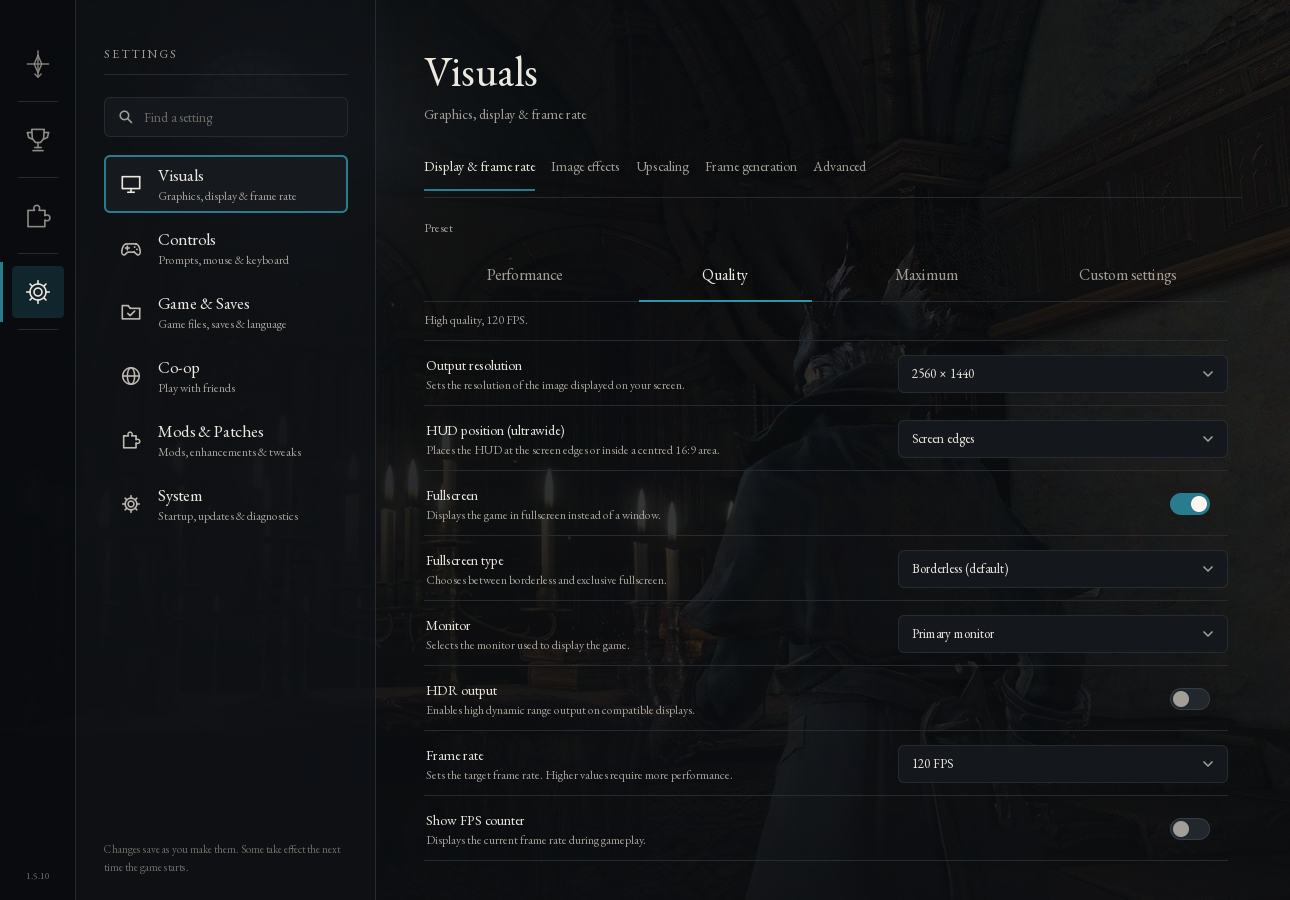
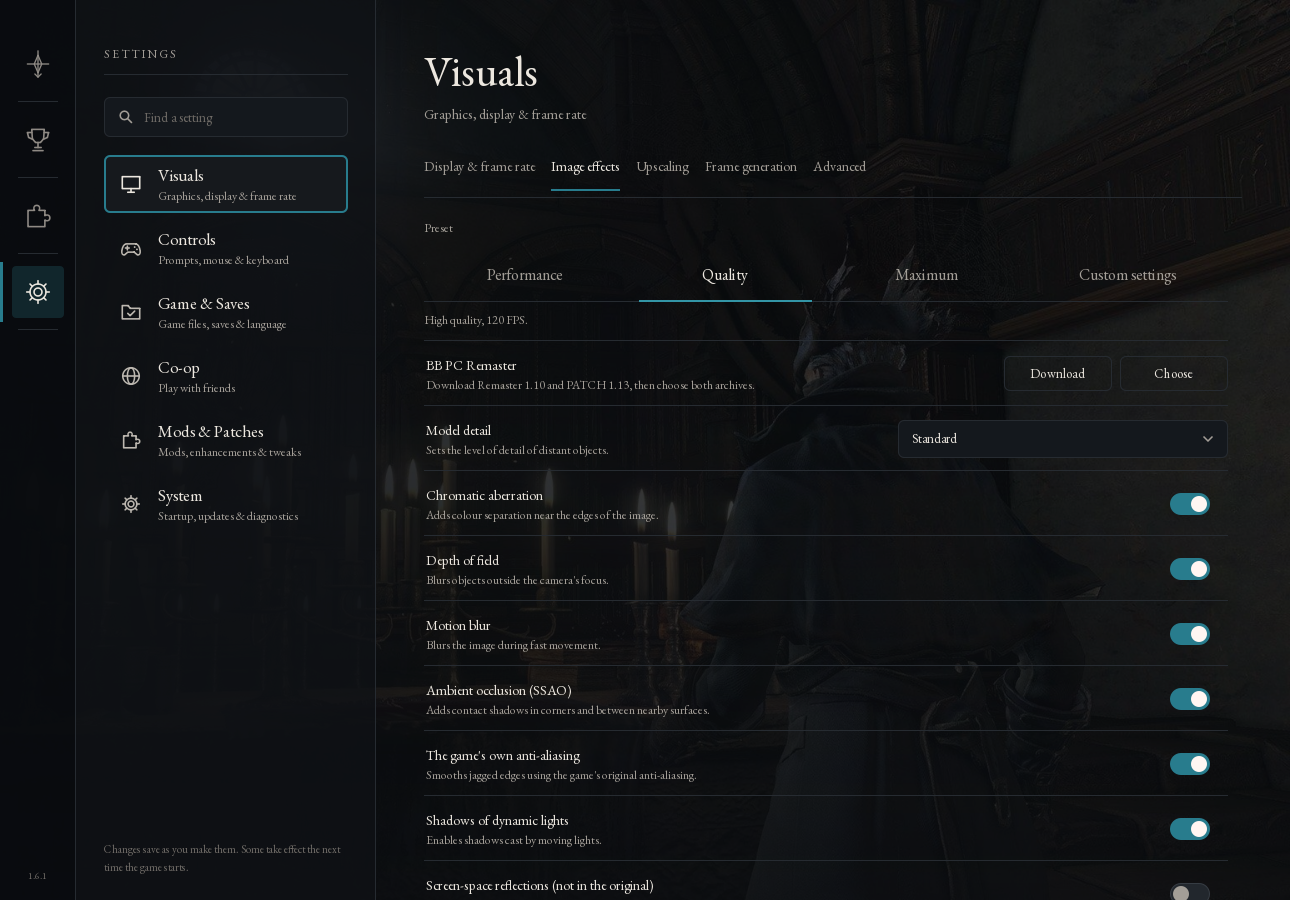
docs: document BBGL 1.6.1 on main

diff --git a/README.md b/README.md
@@ -1,6 +1,6 @@
 # Bloodborne Game Launcher (BBGL)
 
-**BBGL 1.5.10** includes BBSC-GL 1.5.10 and optional Pig Invasion (disabled by default). Enable it in Mods; the first launch prepares 2529 files. See [release notes](docs/release-1.5.10.md) for changes and gameplay coverage.
+**BBGL 1.6.1** adds a dedicated BB PC Remaster setting and includes BBSC-GL 1.6.1 for character-specific guest progress and co-op boss recovery. [Release notes](docs/release-1.6.1.md).
 
 **English** · [Русский](README.ru.md) · [Download BBGL](https://github.com/mark3317/bbgl/releases/latest) · [Report a problem](https://github.com/mark3317/bbgl/issues)
 
@@ -14,7 +14,7 @@ BBGL brings installation, configuration and launching into one interface. Guided
 
 **The entire main story is playable in co-op, from the beginning through the finale, with a working transition to NG+. A complete playthrough and the move into the next cycle have been tested in-game and confirmed by the user. Chalice dungeons work in co-op, including randomly generated Root Chalices.**
 
-The current published release fixes Silencing Blank item context and restores collision after in-place respawn. Collision was confirmed in a host gameplay retest. Visual Blank verification, full Pig Invasion coverage and group-death checks with two or three updated clients remain open. The network-pool exhaustion disconnect remains unresolved. [Release notes](docs/release-1.5.10.md).
+The multiplayer retest is pending, and the network-pool disconnect remains an open issue. [Release notes](docs/release-1.6.1.md).
 
 ## Party and peer-to-peer networking
 
@@ -40,6 +40,7 @@ A complete main-story co-op playthrough and transition to NG+ were confirmed by 
 - **One package for getting started.** Built-in game downloading, bundled P2P co-op client, and ready-to-use button prompt packs. Game files are downloaded separately through the interface and are not included in the launcher ZIP.
 - **Full Russian interface localization.** The launcher, added in-game menus and overlay are translated into Russian; English is also available.
 - **Graphics settings during gameplay.** Change resolution, upscaling and supported graphics effects through the in-game menu without restarting the game, so you can tune image quality and performance during a session.
+- **Optional BB PC Remaster.** Install and enable the texture pack under **Settings → Visuals → Image effects**. [Installation instructions](docs/MODS.md#bb-pc-remaster).
 - **Redesigned interface.** Guided first launch, settings search, solo/co-op launch selection and LAN/VPN connection checks from the launcher.
 - **Mod management.** One table for load order, toggles, network comparison and missing-mod downloads, with a mismatch warning before launch. Button prompts stay separate. The optional Diamond Sword mod is bundled and disabled by default.
 - **In-game overlay.** Open trophies, notifications, diagnostics and live cheat toggles with **Insert** or **L3 + R3**. The overlay follows the launcher's language.
@@ -58,7 +59,7 @@ The interface supports English and Russian. The screenshots show the cooperative
 
 ## Start playing
 
-1. Download `bbgl-1.5.10-windows-x64.zip` from Releases and extract it. Open the **Bloodborne Game Launcher** folder.
+1. Download `bbgl-1.6.1-windows-x64.zip` from Releases and extract it. Open the **Bloodborne Game Launcher** folder.
 2. Run **Bloodborne.exe**. Use the built-in download button in setup or select an existing Bloodborne **CUSA03173, update 1.09** folder. Game files are not included in the launcher archive.
 3. For co-op, connect every PC to the same VPN or LAN. Choose **Local network**, **Tailscale** or **Radmin**; installed VPNs appear in the list and missing ones have installation buttons. Check connectivity, then start the game. Players can join later. No server or invite code is required.
 4. Use the in-game co-op bells to gather your party. Keep everyone on the same BBGL release.
@@ -69,6 +70,6 @@ Windows x64 and a compatible Vulkan driver are required. For graphics, hardware,
 
 [Build BBGL](BUILDING.md) · [Changes](CHANGELOG.md) · [Credits and licences](THIRD_PARTY.md)
 
-Use tag `v1.5.10` for the published release source; `develop` is ongoing work. This documentation update leaves `main` code at 1.5.8. BBSC-GL is pinned as a submodule. Internal `bbport` / `bbsc` executable names and protocol identifiers are retained for compatibility.
+Use tag `v1.6.1` to build the published version. Current development is in `develop`. BBSC-GL is pinned as a submodule. Internal `bbport` / `bbsc` executable names and protocol identifiers are retained for compatibility.
 
 Based on yharnam-pc / bbport and [BBSC by CLS_AMG and contributors](https://github.com/CLSAMG22/BBSC). Their licences and attribution remain included. Bloodborne belongs to FromSoftware and Sony Interactive Entertainment; this is an independent fan project.

diff --git a/docs/release-1.6.1.md b/docs/release-1.6.1.md
@@ -1,0 +1,23 @@
+# BBGL 1.6.1
+
+## Русский
+
+- **BB PC Remaster** получил отдельную строку в разделе «Эффекты изображения». Кнопки «Скачать» и «Выбрать» помогают установить Remaster 1.10 и PATCH 1.13. После установки появляется переключатель. Пока пак включён, строка «Детализация моделей» скрыта. Уровни детализации в лаунчере и игровом меню идут от максимального к минимальному.
+- В игровом оверлее добавлена команда «Погасить все фонари». В автономном режиме она срабатывает один раз при следующей загрузке локации вне Сна охотника. Фонари чаш сохраняются.
+- BBSC-GL 1.6.1 привязывает прогресс гостя к загруженному персонажу и уточняет обработку возрождения, сброса боя и входа гостя первым к боссу.
+
+Распакуйте полный Windows ZIP и запустите `Bloodborne.exe`. Для обновления закройте игру и лаунчер. Обновите всех участников кооператива до 1.6.1. Лаунчер уже включает BBSC-GL и Party. Архивы Remaster загружаются отдельно по инструкции в лаунчере.
+
+В предыдущем игровом прогоне гость первым запустил бой со Стражами в чаше, и оба игрока увидели полоску босса. Для 1.6.1 остаются открыты полный игровой повтор, сценарий сюжетного Рома с отдельным прыжком, задержка первой смерти гостя после загрузки и разрыв сессии по защите сетевого пула NETWORK. Сброс фонарей проверен на стенде, игровой повтор открыт.
+
+## English
+
+- **BB PC Remaster** has its own Image effects setting. The Download and Choose buttons install Remaster 1.10 and PATCH 1.13. The switch appears after installation. Turning the pack on hides Model detail. The launcher and the in-game menu list detail levels from highest to lowest.
+- The in-game overlay can extinguish all lamps outside Chalice Dungeons. This offline action runs once on the next area load outside the Hunter’s Dream.
+- Bundled BBSC-GL 1.6.1 binds guest progress to the loaded character and updates respawn, boss resets and encounters entered first by a guest.
+
+Extract the full Windows ZIP and run `Bloodborne.exe`. Close the game and launcher before updating. Update every co-op player to 1.6.1. BBSC-GL and Party are included. Download the Remaster archives separately using the instructions in the launcher.
+
+A prior game session confirmed a guest could start the Merciless Watchers encounter and both players saw the boss bar. Full gameplay verification for 1.6.1 remains open, along with story Rom’s jump, the delay on a guest’s first death after loading and the NETWORK pool disconnect. Lamp reset passed a targeted test and still needs an in-game check.
+
+[BBSC-GL 1.6.1](https://github.com/mark3317/bbsc-gl/releases/tag/v1.6.1)

diff --git a/BUILDING.md b/BUILDING.md
@@ -5,14 +5,14 @@ Use Windows x64, Visual Studio C++ Build Tools (with Clang), Windows Python 3.10
 ```sh
 git clone https://github.com/mark3317/bbgl.git
 cd bbgl
-git checkout develop
+git checkout v1.6.1
 git submodule update --init gpu/third_party/fsr-vulkan gpu/third_party/imgui third_party/LibAtrac9 gpu/third_party/magic_enum gpu/third_party/miniz gpu/third_party/xbyak mods-src/BBSC
 bash packaging/windows/build-coop-package.sh
 ```
 
 The command builds BBSC-GL from `mods-src/BBSC`, builds the port, freezes the launcher and assembles the P2P runtime. FSR-Vulkan is pinned from the [BBGL dependency fork](https://github.com/mark3317/UniversalScalers-Vulkan), which includes the frame-resource lifetime fix used by this release. The current co-op path needs no separate game server, shadNet account or invitation. Historical server build scripts are not part of this release path.
 
-Staging is recreated at `out/stage/Bloodborne Game Launcher`. The release files are `dist/bbgl-1.5.10-windows-x64.zip` and its `.zip.sha256`. Keep the staging path separate from installed launchers and keep player settings, saves, accounts, logs and game files outside the package.
+Staging is recreated at `out/stage/Bloodborne Game Launcher`. The release files are `dist/bbgl-1.6.1-windows-x64.zip` and its `.zip.sha256`. Keep the staging path separate from installed launchers and keep player settings, saves, accounts, logs and game files outside the package.
 
 Button prompts and the optional Diamond Sword use binary deltas from `bundled-mods`. Packaging uses prepared button prompts from `out/vendor/ready-prompts`. If the cache is empty, set `BB_PROMPT_GAME_DIR` to your own original 1.09 game folder to prepare the prompts. Diamond Sword and all cheats are disabled by default. Detailed logging, research, profiling and Vulkan validation are opt-in. See the [logging policy](docs/LOGGING.md).
 
@@ -24,6 +24,8 @@ Commit the intended BBSC changes before updating the parent gitlink. `coop/SOURC
 
 When building a Git for Windows checkout from MSYS2, use the same line-ending configuration in both environments. If Git for Windows reports a clean checkout but MSYS2 reports only CRLF differences in BBSC dependencies, run the build with `GIT_CONFIG_COUNT=1 GIT_CONFIG_KEY_0=core.autocrlf GIT_CONFIG_VALUE_0=true` in the MSYS2 command environment. Verify that both Git clients report a clean BBSC checkout and that `source_dirty` is false in the final ZIP.
 
-`develop` holds ongoing work. `main` holds release source. BBGL 1.5.10 uses update tag `v1.5.10` and bundles BBSC-GL 1.5.10.
+If MSYS2 Git stalls when collecting BBSC source metadata, set `BB_BUILD_GIT` to the absolute Windows path to Git for Windows before running the packaging command.
+
+`develop` holds ongoing work. The release tag pins the published source. BBGL 1.6.1 uses update tag `v1.6.1` and bundles BBSC-GL 1.6.1.
 
 Pig Invasion is bundled as 2529 binary deltas and is disabled by default. Enable it in Mods. First activation may take several minutes; all co-op players should use matching mods. Game archives are not shipped.

diff --git a/docs/release-1.6.0.md b/docs/release-1.6.0.md
@@ -1,0 +1,27 @@
+# BBGL 1.6.0
+
+## Русский
+
+- Гости видят Германа там же, где хост, в том числе после перезагрузки Сна хостом. Концовку выбирает хост.
+- При сохранении в чужом Сне сохраняются личные алтари гостя. В совместном финале гость восстанавливает свой мир до перехода в NG+.
+- Дополнен сброс попыток после общей гибели на боссах сюжета, DLC и чаш, включая размещение Лоуренса и раскладки с отдельными флагами боя.
+- При возрождении после гибели на лестнице сбрасывается штатное состояние лазания.
+- Обработан выход участника во время перехода в NG+, когда прежний мир уже выгружен.
+
+Распакуйте полный Windows ZIP и запустите `Bloodborne.exe`. В архив уже входят BBSC-GL 1.6.0 и Party. Обновите всех участников до 1.6.0.
+
+Целевые стенды прошли, в том числе для поздней активации Германа, всех трёх концовок, алтарей и сброса попыток. Игровой повтор на 1.6.0 открыт. Известный разрыв сессии по защите сетевого пула NETWORK остаётся открытым.
+
+## English
+
+- Guests see Gehrman at the host’s location in the Hunter’s Dream, including after the host reloads. The host chooses the ending.
+- Protects guests’ personal Chalice altars when saving in another player’s Dream. During the group finale, the guest restores their own world before entering NG+.
+- Extends boss-attempt resets after a group wipe across the story, DLC and Chalice Dungeons. Includes Laurence’s placement and variants with their own encounter flags.
+- Resets the native ladder action when a player respawns after dying on a ladder.
+- Guards native room-member removal during the NG+ transition when the old world has already been unloaded.
+
+Extract the full Windows ZIP and run `Bloodborne.exe`. BBSC-GL 1.6.0 and Party are bundled. Update every participant to 1.6.0.
+
+Targeted tests passed, including late Gehrman activation, all three endings, personal altars and boss-attempt resets. Multiplayer gameplay verification on 1.6.0 is pending. The known NETWORK pool disconnect remains open.
+
+[BBSC-GL 1.6.0](https://github.com/mark3317/bbsc-gl/releases/tag/v1.6.0)

diff --git a/docs/MODS.md b/docs/MODS.md
@@ -76,6 +76,25 @@ BB_GAME_DIR=/path/to/CUSA03173 BB_MODS_ENABLED=0 bash run.sh
 `BB_MODS_CONFIG` меняет путь профиля. `BB_MOD_TRACE=1` с `BB_MODS_DIR` выводит
 первые чтения реально подключённых файлов для диагностики.
 
+## BB PC Remaster
+
+В **Настройки → Изображение → Эффекты изображения** есть отдельная настройка
+**BB PC Remaster** от fromsoftserve. Нужны основной архив **1.10** и
+**PATCH 1.13**, всего **25,1 ГиБ** загрузки. Кнопка «Скачать» открывает
+[раздел файлов на Nexus Mods](https://www.nexusmods.com/bloodborne/mods/45?tab=files).
+Нажмите «Выбрать» и укажите оба скачанных архива. Лаунчер распакует их
+по порядку и покажет общий прогресс. После распаковки появится переключатель.
+
+С личным ключом Nexus Mods Premium в переменной среды `BB_NEXUS_API_KEY`
+лаунчер скачивает и распаковывает оба архива сам и показывает общий прогресс.
+При повторной попытке он использует уже полученные данные, если сервер
+поддерживает докачку. Без ключа загрузка идёт в браузере.
+
+Пак хранится в папке модов в `.bb-pc-remaster` и действует со следующего
+запуска игры. Включение задаёт максимальный LOD и подключает визуальный пак
+через существующую таблицу замен. Пока пак включён, строка «Детализация моделей»
+скрыта. При выключении она возвращается.
+
 # Сторонние патчи (XML shadPS4)
 
 Папка `patches/` в каталоге данных (в AppImage — `~/.local/share/bbport/patches/`, в лаунчере

diff --git a/docs/ROADMAP.md b/docs/ROADMAP.md
@@ -1,8 +1,16 @@
-## 13.11.2026 — актуальный опубликованный выпуск 1.5.10
+## 17.11.2026 — BBGL 1.6.1
 
-Документация `main` обновлена из `develop` без переноса кода: исходники
-`main` остаются на 1.5.8. Исходники опубликованного выпуска доступны
-в теге `v1.5.10`; текущая разработка — в `develop`.
+Включает BBSC-GL 1.6.1, отдельную настройку BB PC Remaster, согласованные
+названия уровней детализации и команду сброса фонарей в офлайн-оверлее.
+Контрольные суммы опубликованных ZIP совпали, лаунчер из архива запустился
+на русском и английском. Игровой повтор выпуска открыт.
+[Описание выпуска](release-1.6.1.md).
+
+## 15.11.2026 — BBGL 1.6.0
+
+Включает BBSC-GL 1.6.0. Стендовые проверки прошли, игровой повтор открыт. [Описание выпуска](release-1.6.0.md).
+
+## 13.11.2026 — статус выпуска 1.5.10
 
 BBGL 1.5.10 и BBSC-GL 1.5.10 опубликованы 11.11.2026 в 02:09 и 02:08 МСК.
 Наличие обоих Releases и веток `develop` повторно проверено через GitHub 13.11.

diff --git a/docs/screenshots/README.md b/docs/screenshots/README.md
@@ -1,11 +1,13 @@
-# Скриншоты BBGL 1.5.10
+# Скриншоты BBGL 1.6.1
 
-Сняты 11.11.2026 из текущего QML-интерфейса. Для обновления:
+Сняты 17.11.2026 из текущего QML-интерфейса. Для обновления:
 
 ```powershell
-out/qt-venv/Scripts/python.exe tools/capture_release_screenshots.py
+out/qt-venv/Scripts/python.exe tools/capture_release_screenshots.py --output out/screenshots
+out/qt-venv/Scripts/python.exe tools/capture_release_screenshots.py --language en --review --output out/release-review/en
 ```
 
-Скрипт снимает главный экран в совместном режиме и настройки изображения.
+Первый вызов снимает главный экран в совместном режиме. Для вкладки «Эффекты
+изображения» используется `launcher-section-0-1-1290.png` из второго вызова.
 Он использует временный профиль без доступа к игре и сетевого обнаружения.
 На главном экране показан пример профиля Hunter до выбора папки игры.

diff --git a/CLAUDE.md b/CLAUDE.md
@@ -1,4 +1,14 @@
-## Актуализация по последним чатам — 13.11.2026
+## Опубликованный выпуск — 17.11.2026
+
+BBGL 1.6.1 и BBSC-GL 1.6.1 опубликованы. Тег BBGL `v1.6.1` указывает на
+`0e806b6` и закрепляет BBSC-GL `cbeb925`. Исходники для сборки выпуска
+доступны по тегам, текущая разработка идёт в `develop`.
+
+Проверены контрольные суммы опубликованных архивов и запуск лаунчера из ZIP
+на русском и английском. Полный игровой повтор 1.6.1 открыт.
+[Описание выпуска](docs/release-1.6.1.md).
+
+## Состояние на 13.11.2026
 
 Документация `main` синхронизирована с `develop` 13.11.2026 и описывает
 опубликованную 1.5.10. Это обновление только документов: исходники `main`

diff --git a/CHANGELOG.md b/CHANGELOG.md
@@ -1,5 +1,17 @@
 # BBGL changelog
 
+## 1.6.1 — 2026-11-17
+
+- Install and toggle BB PC Remaster from Image effects. Hide the model detail selector while the pack is enabled.
+- Use the same model detail labels and order in the launcher and the in-game settings.
+- Add an offline command to extinguish non-Chalice lamps from the overlay.
+- Bundle BBSC-GL 1.6.1 with character-bound guest progress and updates to respawn and boss encounters. [Release notes](docs/release-1.6.1.md).
+
+## 1.6.0 — 2026-11-15
+
+- Bundle BBSC-GL 1.6.0 with shared Gehrman placement, personal altar and NG+ protection, expanded boss resets and native ladder recovery.
+- See [release notes](docs/release-1.6.0.md) for gameplay coverage and the open NETWORK issue.
+
 ## 1.5.10 — 2026-11-11
 
 - Bundle Pig Invasion as an optional mod, disabled by default. Preserve prior user choices.
